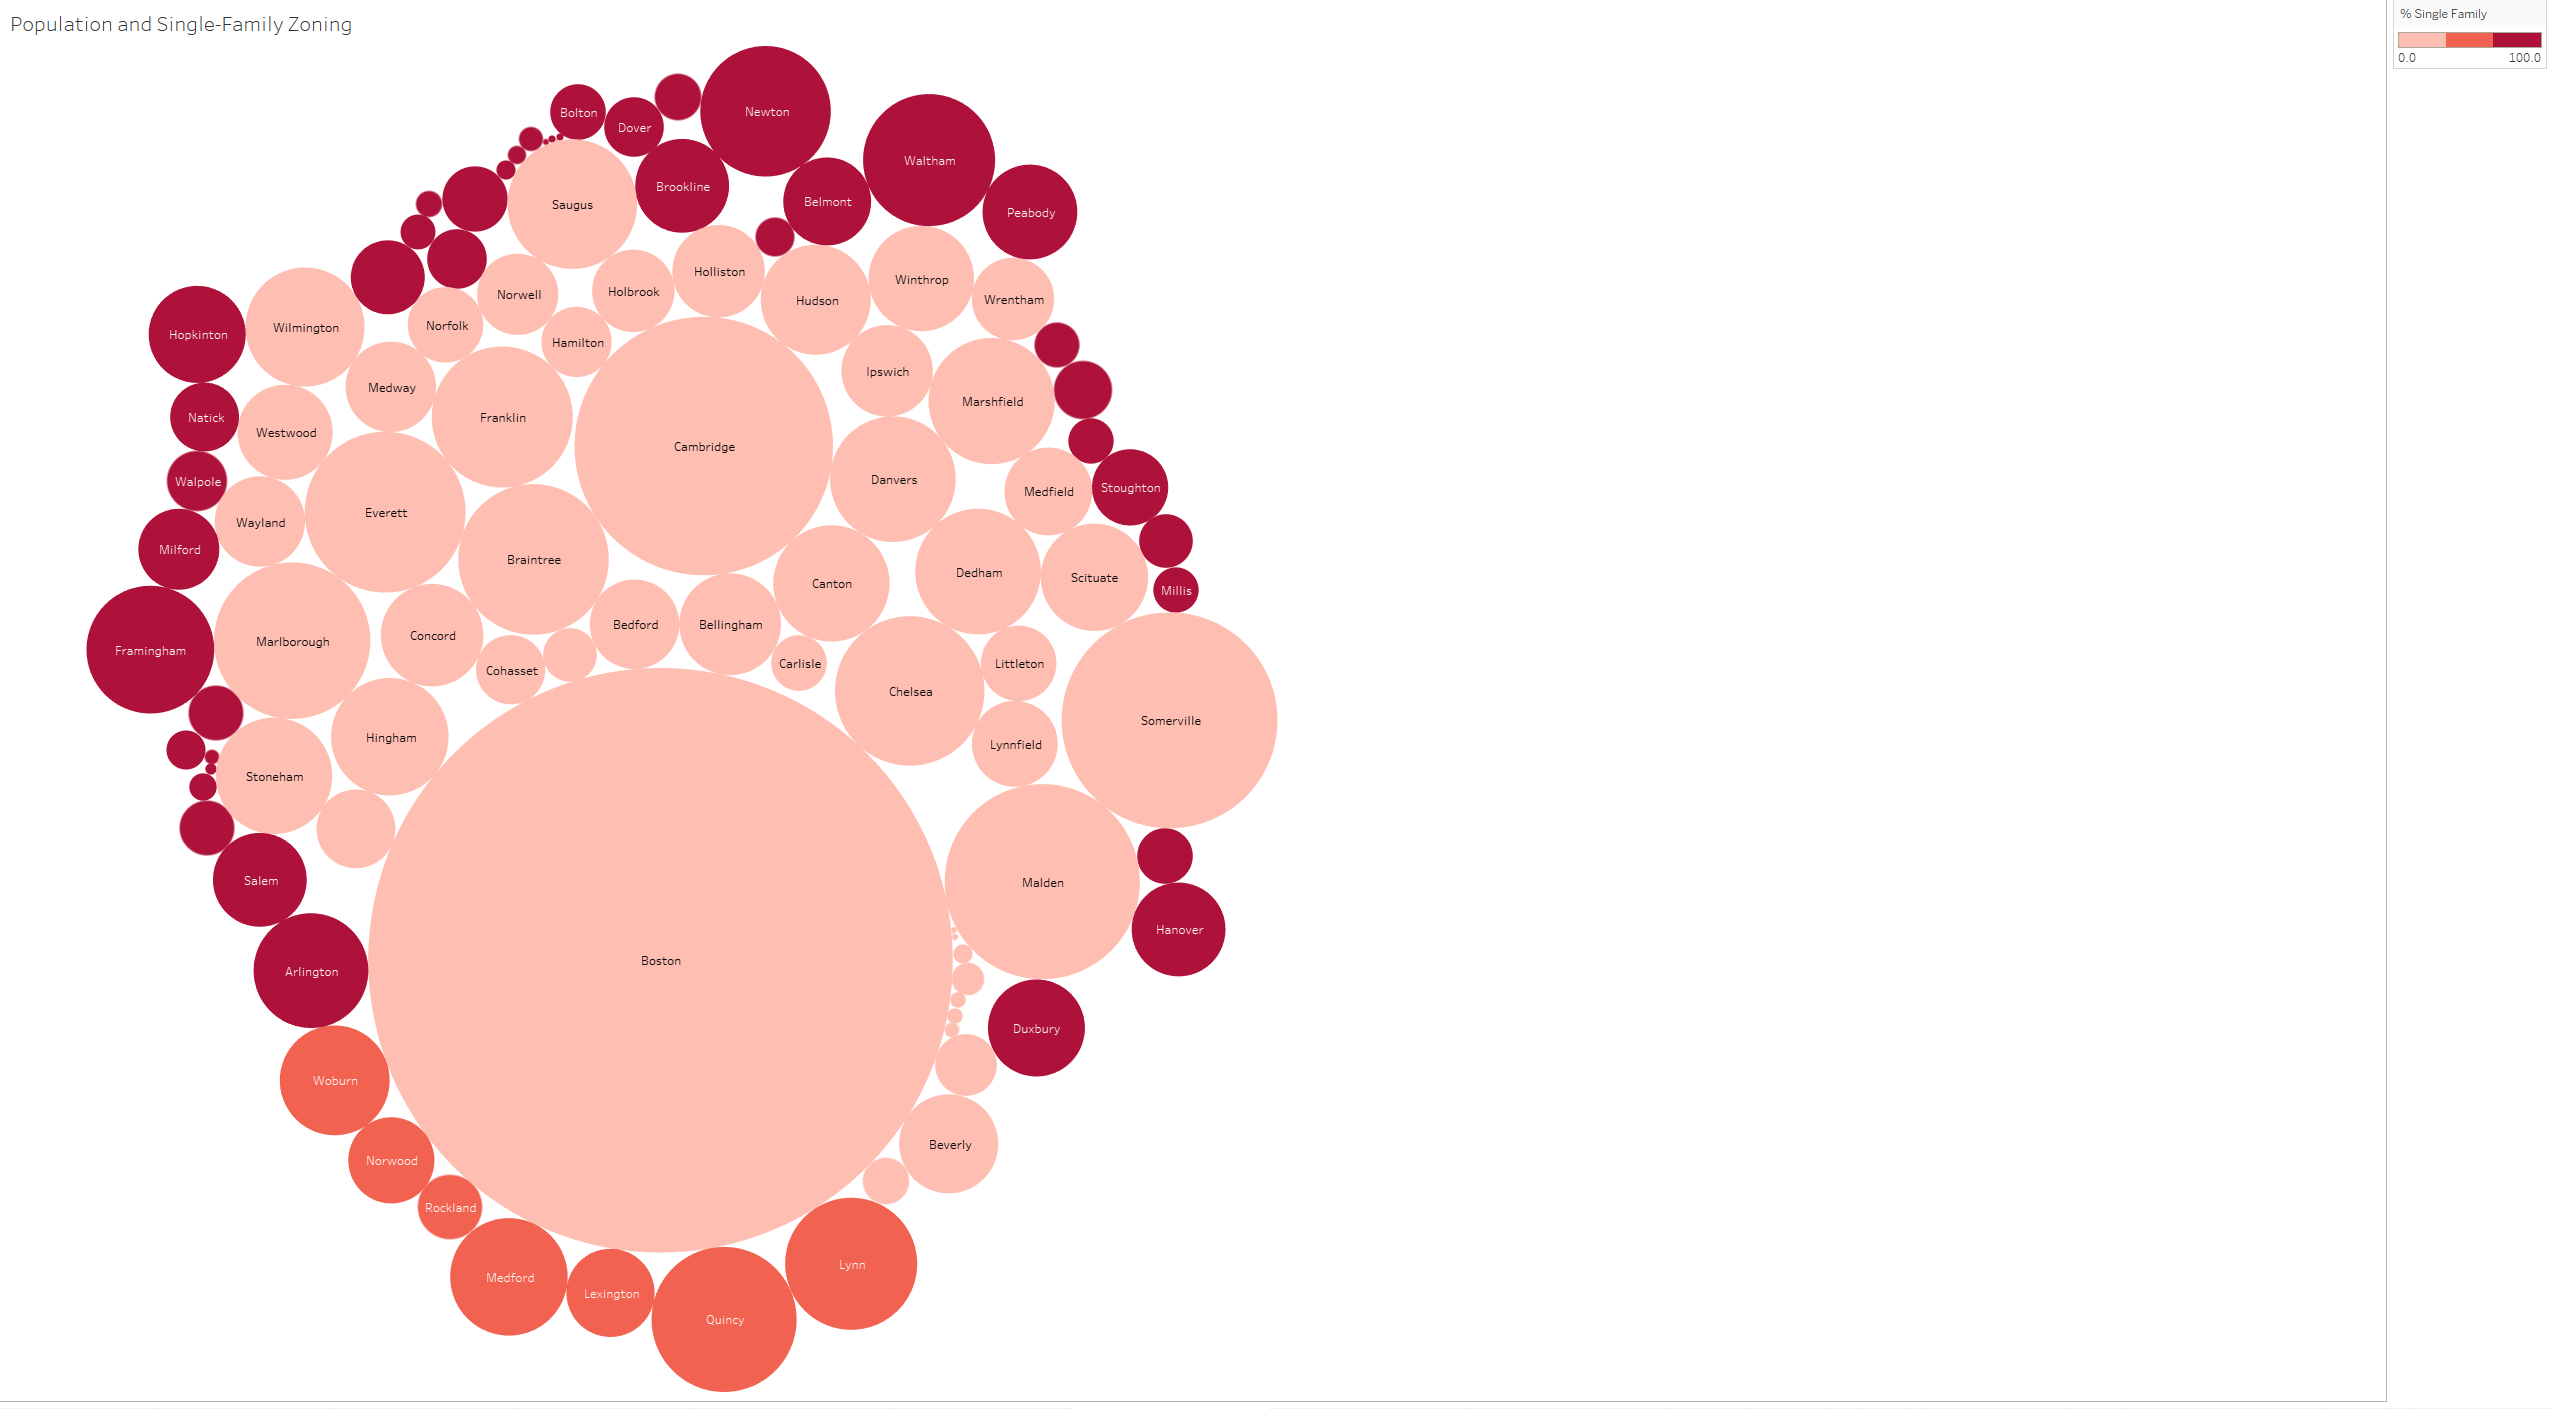
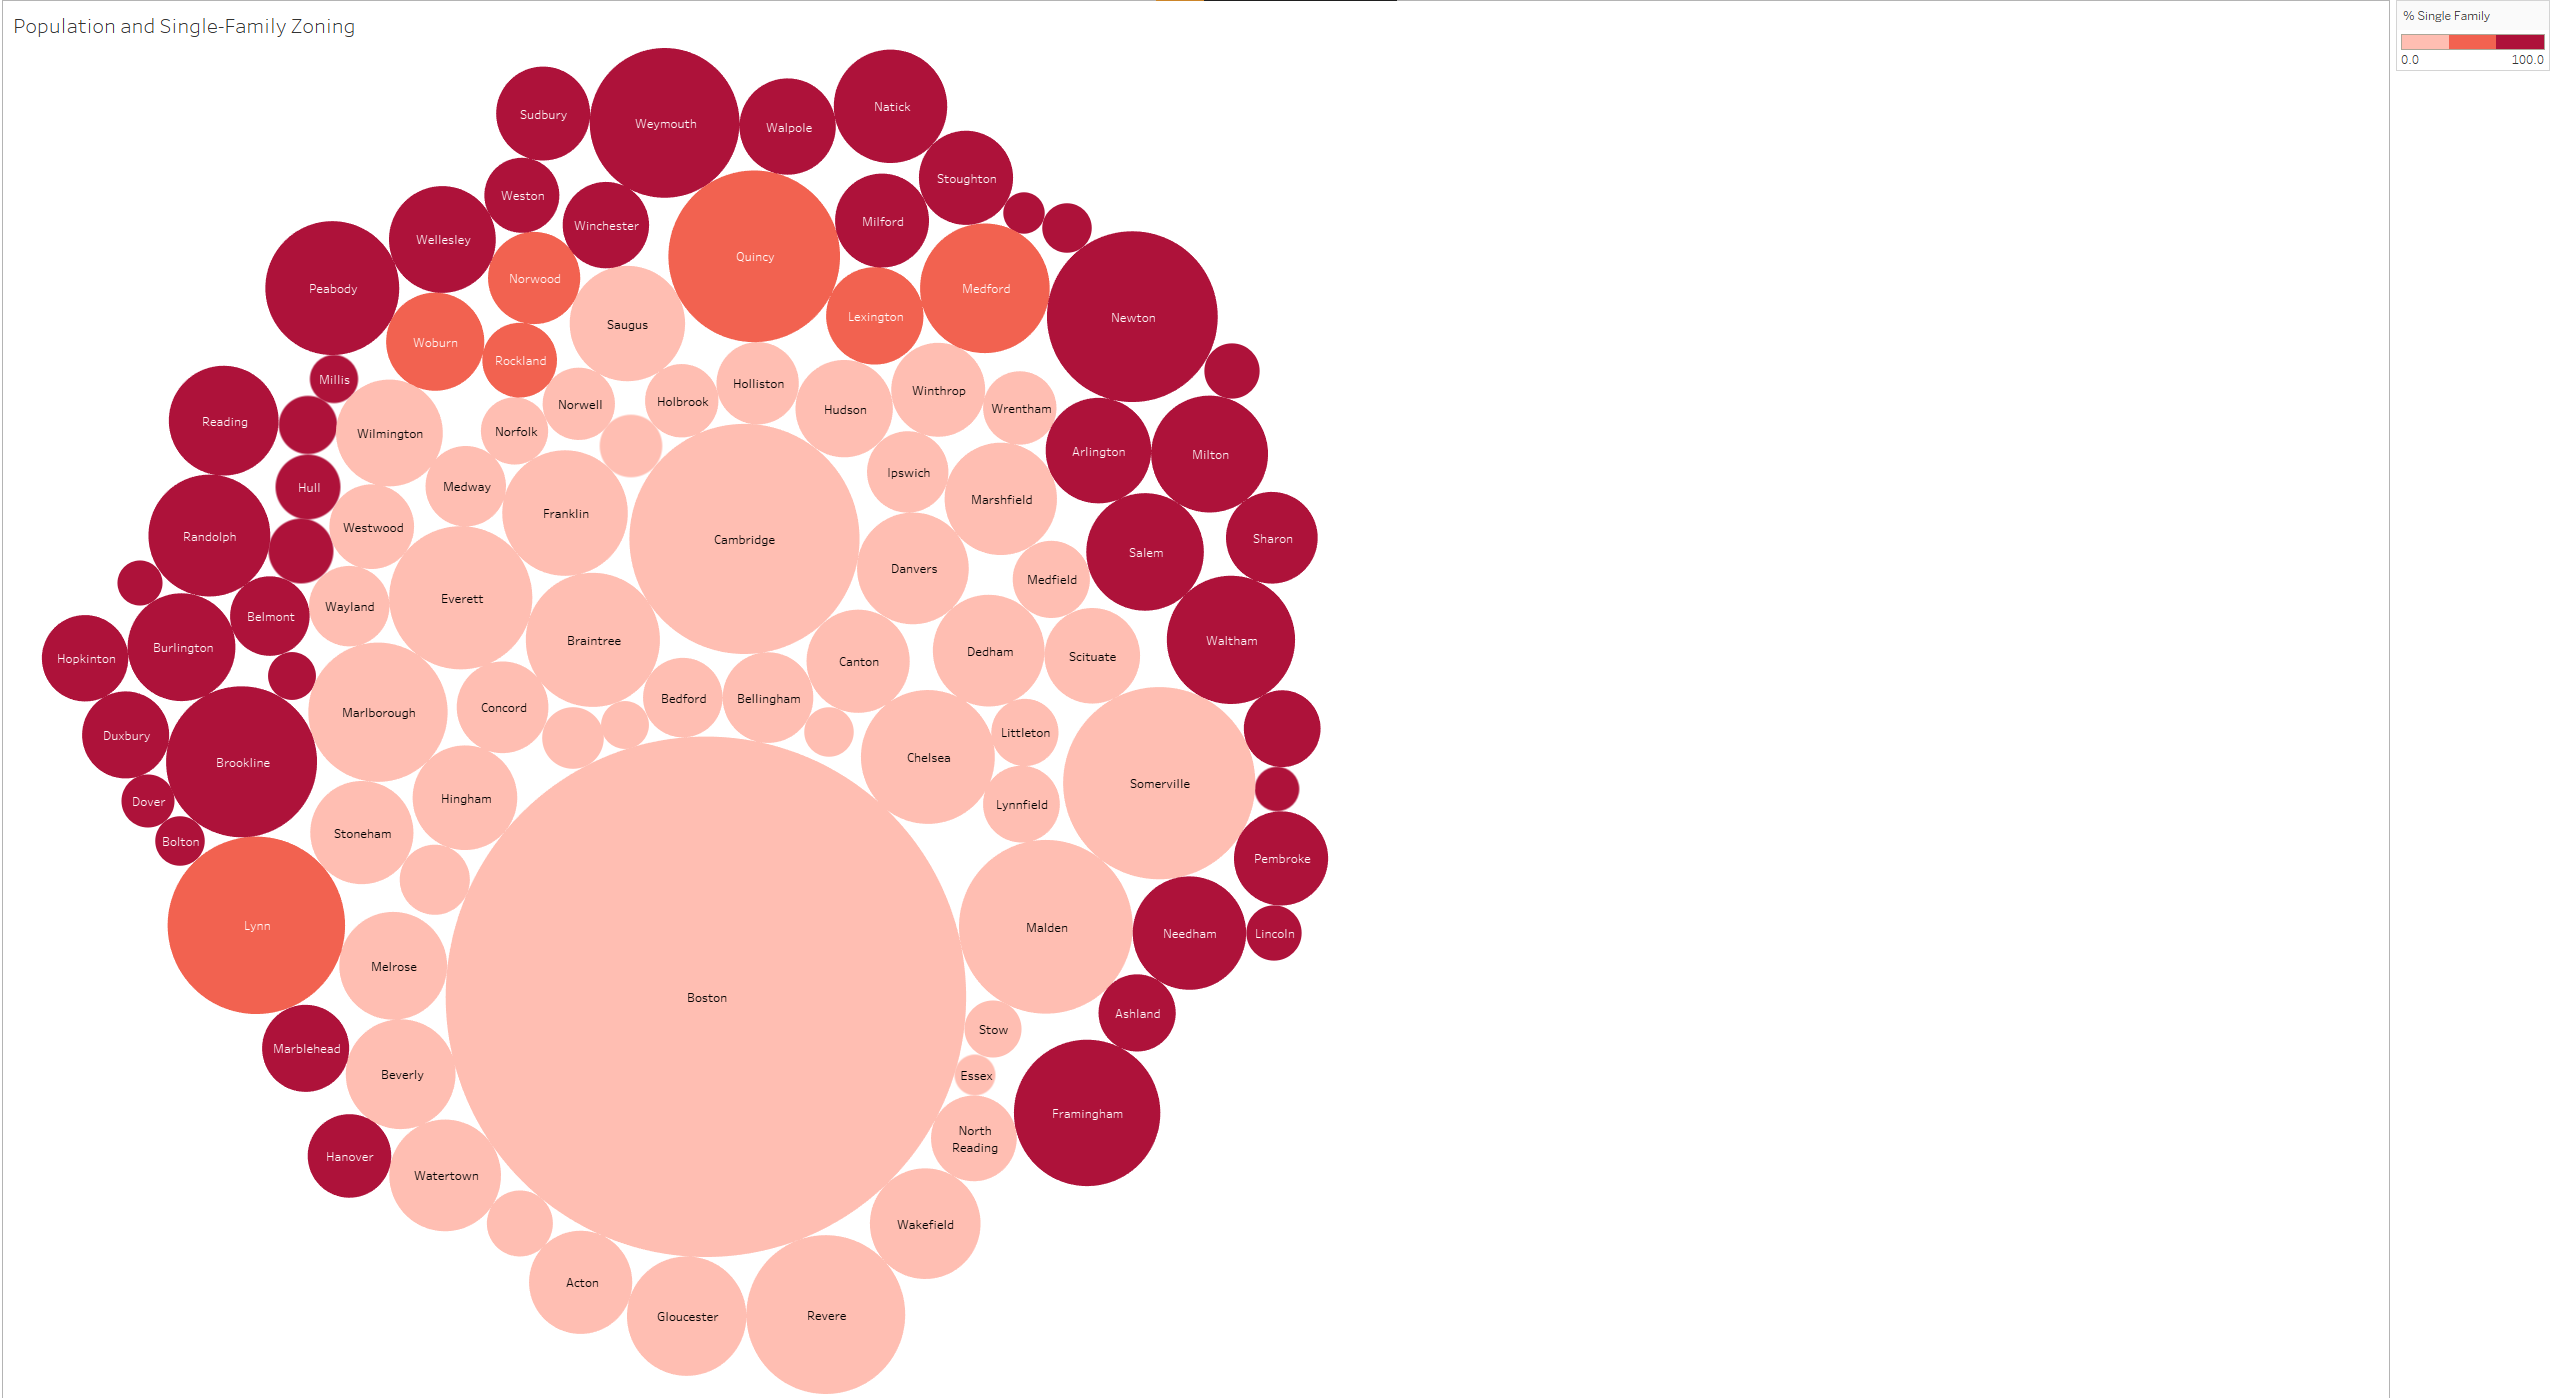
f

Changed region(s): [[0.0, 0.0308, 0.5263, 1.0], [0.9287, 0.0, 1.0, 0.0615], [0.0, 0.0, 0.1548, 0.0308]]

diff --git a/projects/A2_report.html b/projects/A2_report.html
@@ -233,9 +233,27 @@
 			</figure>
 
 			<figure>
-				<img src="../images/pop-SF_bubble.png" alt="" width="100%" height="auto"/>
+				<img src="../images/pop-SF_bubble.png" alt="" width="100%"
+				height="auto"/>
 				<figcaption>
-				ENTER IMAGE CAPTION HERE.
+				Taking a step back from racial and economic demographics, I
+				wanted to see if any effects were related to population. In this
+				bubble chart, I show the population of each municipality using
+				the size of each circle. The coloring scheme is the same as the
+				previous single-family housing percentage maps: low (pink),
+				moderate (orange), and high (red). The most obvious feature in
+				this chart is that the largest circles (Boston, Cambridge,
+				Somerville, Malden, Everett, etc.) have low single-family zoning
+				percentages. This result makes sense, because more urban areas
+				(with high populations) generally have higher population
+				densities via apartment buildings and multi-family homes, often
+				enabled by robust public transit systems. Curiously, not all of
+				the small circles are red though. While many of the smaller
+				circles employ some amount of single-family zoning, there are
+				several small pink circles (one of which, Carlisle, being
+				explicitly in the "executive belt"). As mentioned previously,
+				this result could be do to Carlisle's zoning percentages being
+				misrepresented.
 				</figcaption>
 			</figure>
 
